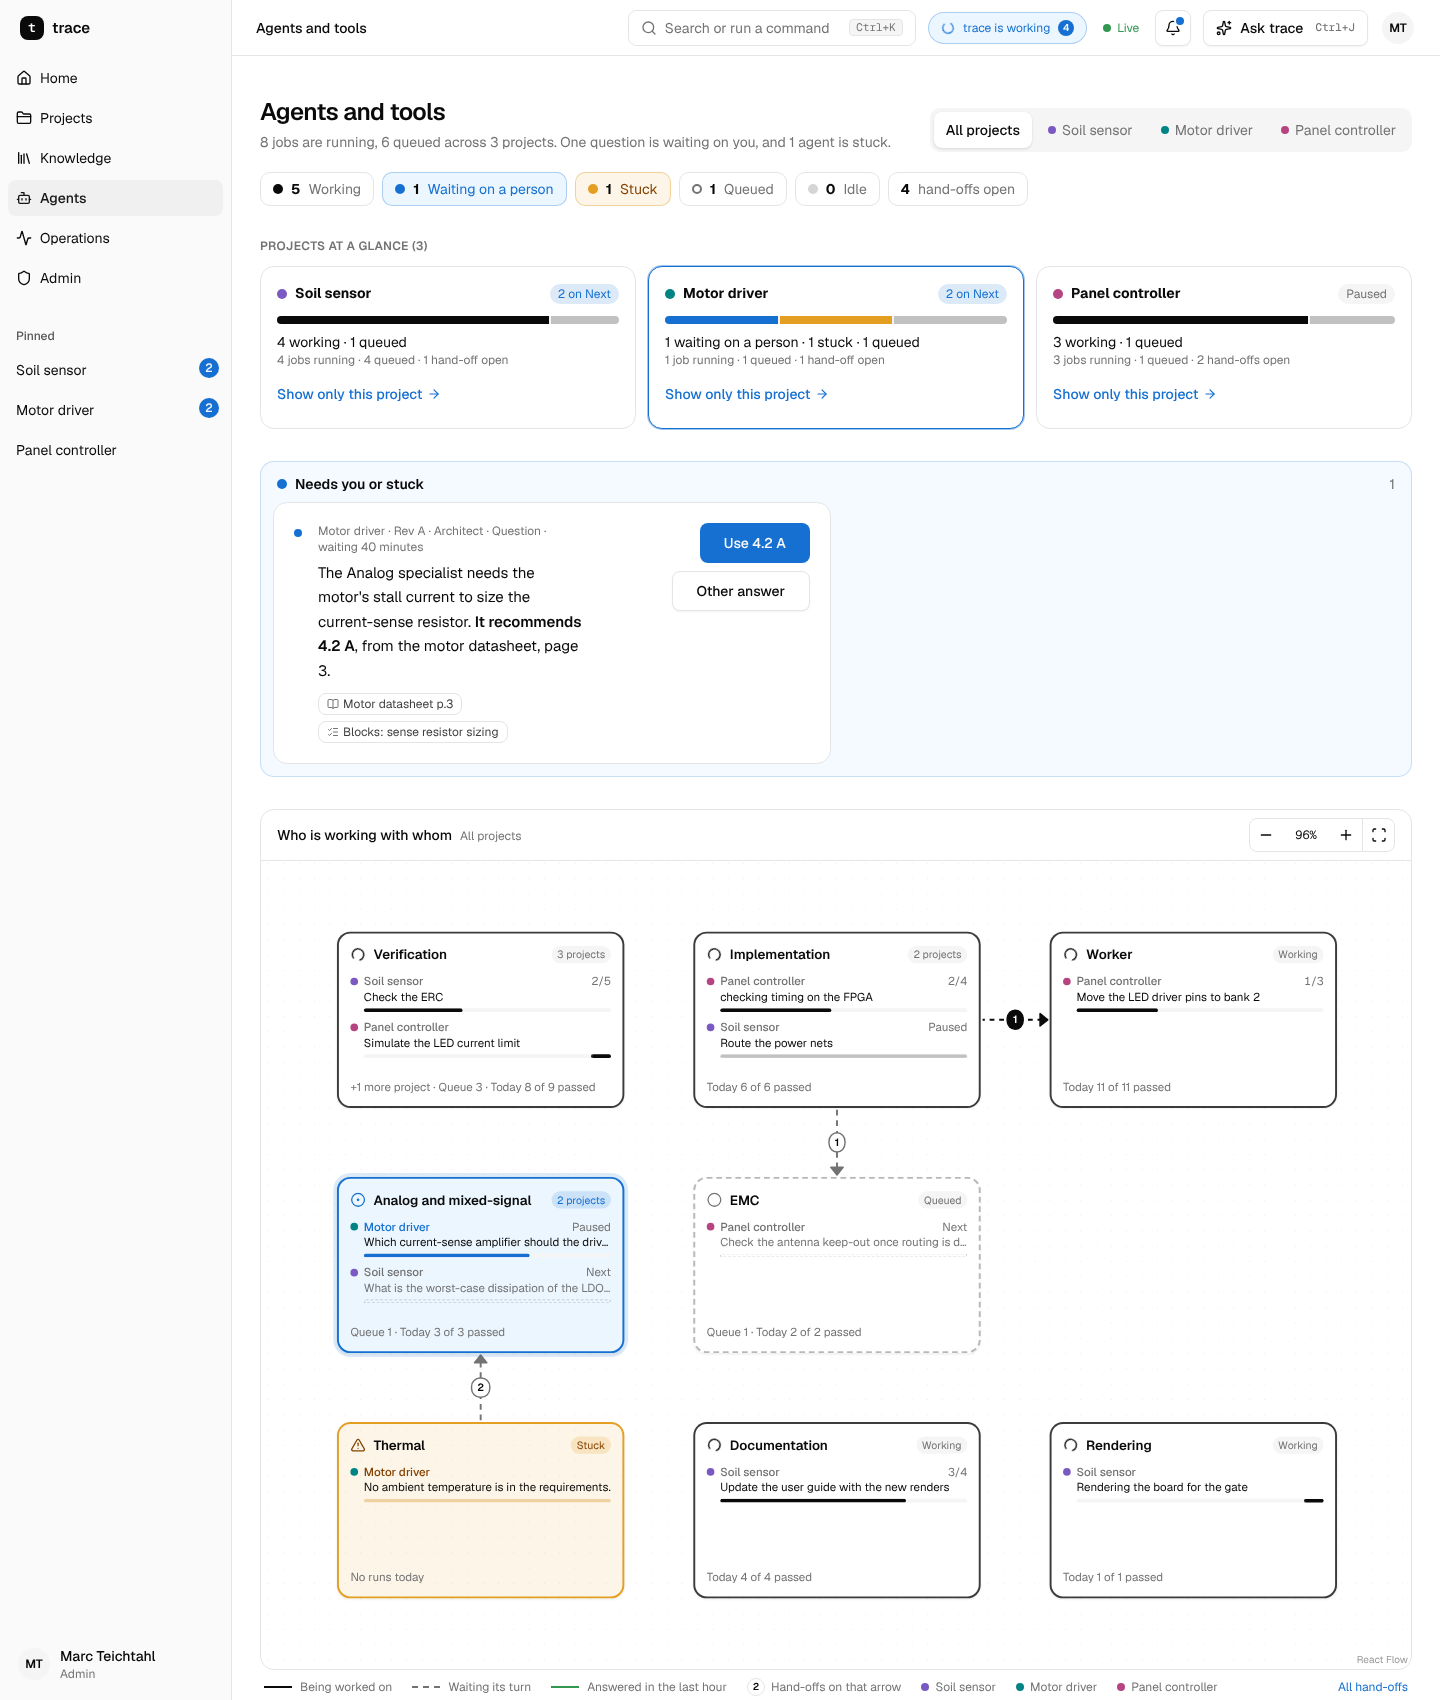
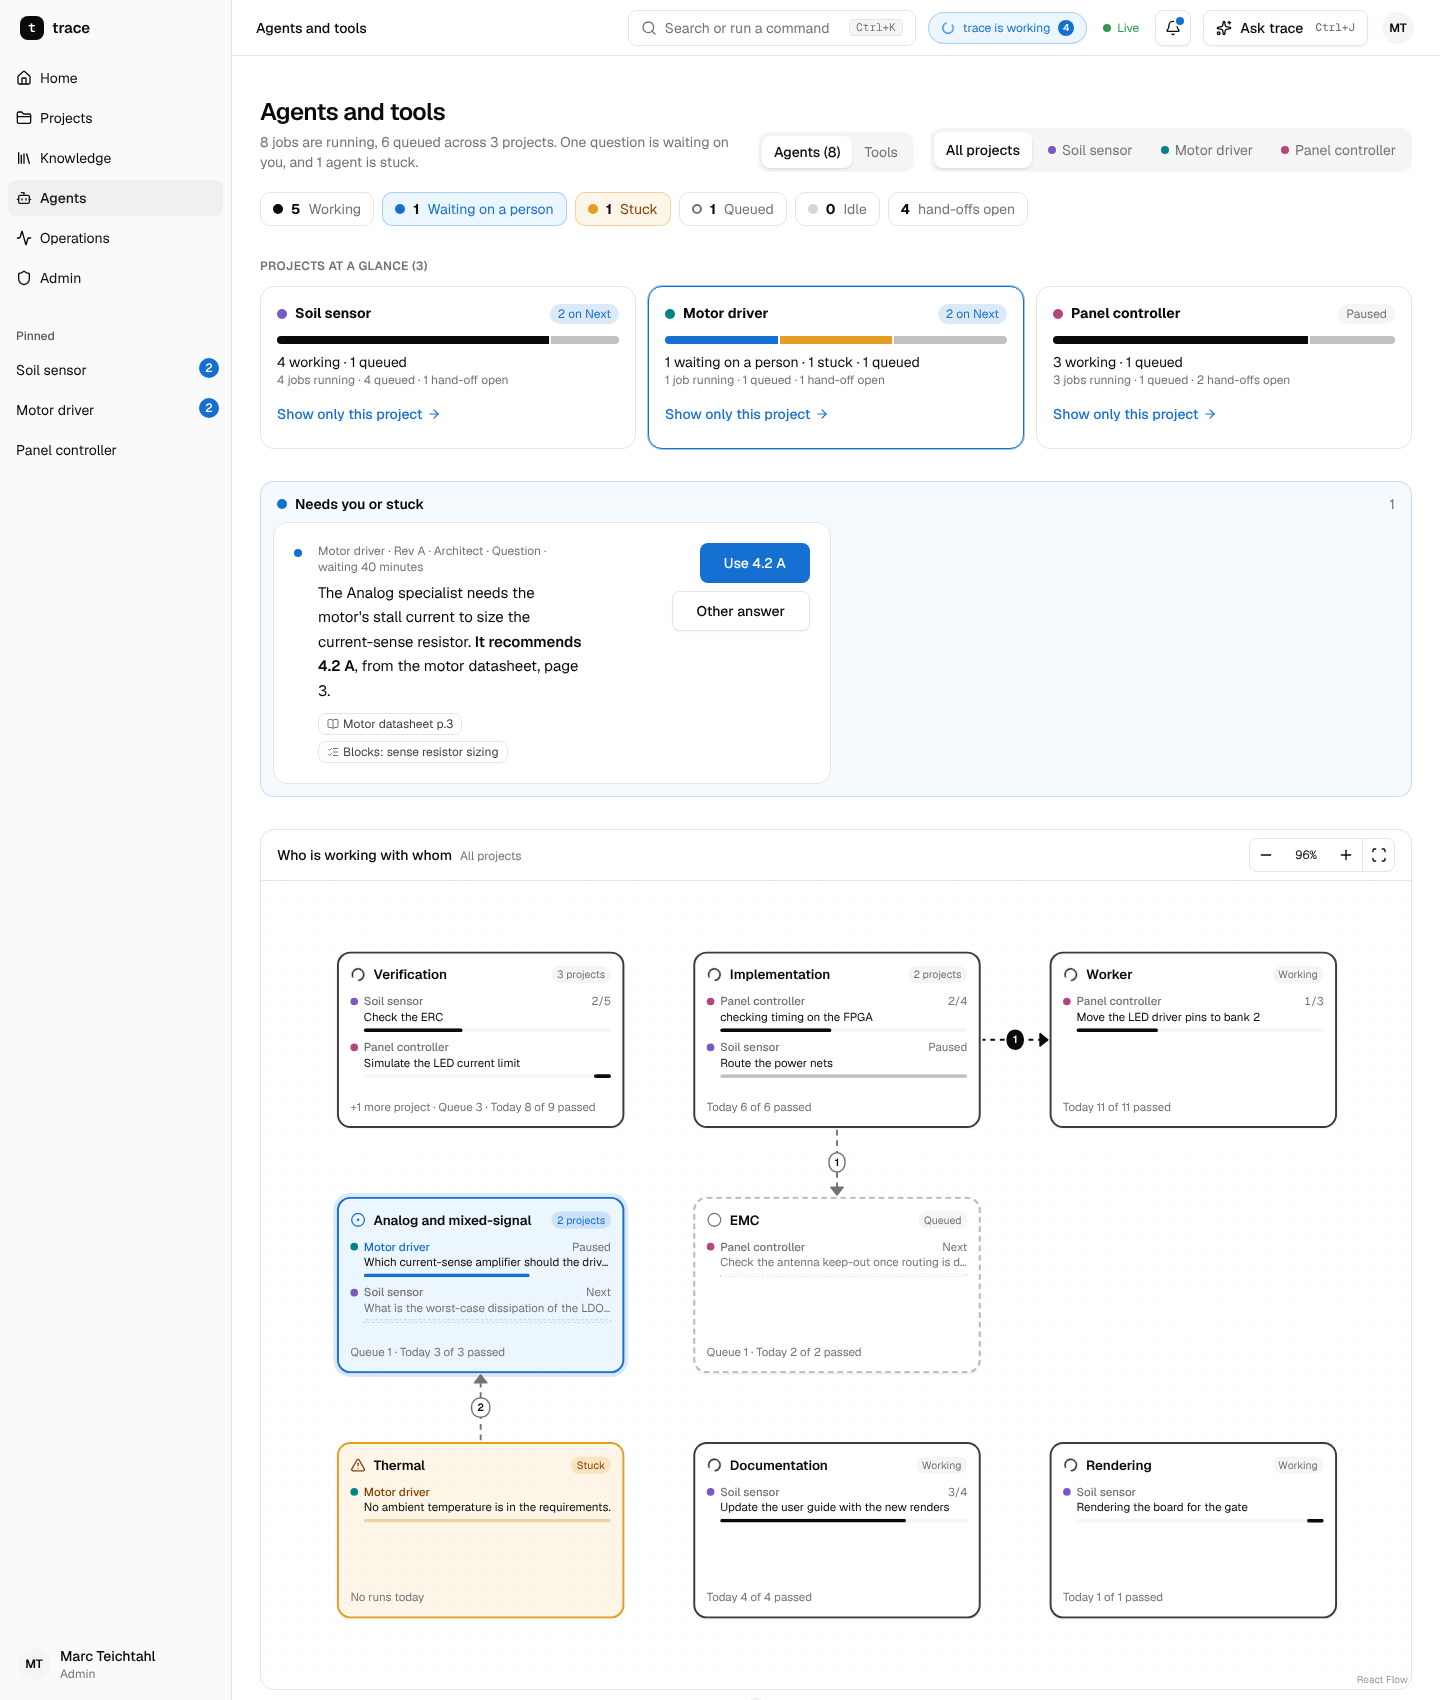
Agents smoke test: check the map, not the old table; keep the Jump to links
The smoke test looked for the old "Agents (n)" table heading. It now
checks the page heading, the map and an agent's box with its status.
The page keeps its Jump to links (Agents, Tools) beside the title.

Claude-Session: https://claude.ai/code/session_014dZPhagycBKrduXoMZjGmn

diff --git a/web/src/routes/_app/agents/index.tsx b/web/src/routes/_app/agents/index.tsx
@@ -138,6 +138,10 @@ function Agents() {
           <h1 className="text-2xl font-semibold tracking-tight">Agents and tools</h1>
           <p className="mt-1 text-sm text-muted-foreground" aria-live="polite">{summary}</p>
         </div>
+        <nav aria-label="Jump to" className="inline-flex rounded-lg bg-muted p-1 text-sm">
+          <a href="#map" className="rounded-md bg-background px-3 py-1.5 font-medium shadow-sm">Agents ({views.length})</a>
+          <a href="#tools-h" className="rounded-md px-3 py-1.5 text-muted-foreground hover:text-foreground">Tools</a>
+        </nav>
         {work.per.length > 1 && (
           <div role="radiogroup" aria-label="Projects shown" className="inline-flex max-w-full flex-wrap gap-1 rounded-lg bg-muted p-1 text-sm">
             <ProjectChip on={!only} onClick={() => setOnly(null)}>All projects</ProjectChip>
@@ -196,7 +200,7 @@ function Agents() {
         </section>
       )}
 
-      <section aria-label="Agents map" className="mt-8">
+      <section id="map" aria-label="Agents map" className="mt-8 scroll-mt-20">
         {work.loading ? (
           <Loading><SkeletonRows rows={4} /></Loading>
         ) : phone ? (

diff --git a/web/smoke/admin.smoke.ts b/web/smoke/admin.smoke.ts
@@ -45,8 +45,10 @@ test('operations: dashboards load with a time range', async ({ app, page }) => {
 
 test('agents and tools list with their status', async ({ app, page }) => {
   await app.open('/agents')
-  await expect(page.getByRole('heading', { name: /^Agents \(\d+\)/ })).toBeVisible()
-  await app.tableHasRows()
+  await expect(page.getByRole('heading', { name: 'Agents and tools' })).toBeVisible()
+  // the map: a box per agent, each saying its status
+  await expect(page.getByRole('group', { name: /^Agents map/ })).toBeVisible()
+  await expect(page.getByRole('button', { name: /^Verification: (Working|Queued|Idle|Stuck|Waiting on a person)\./ })).toBeVisible()
   await page.getByRole('navigation', { name: 'Jump to' }).getByRole('link', { name: 'Tools' }).click()
   await expect(page.getByRole('heading', { name: /^Tools/ })).toBeInViewport()
 })
